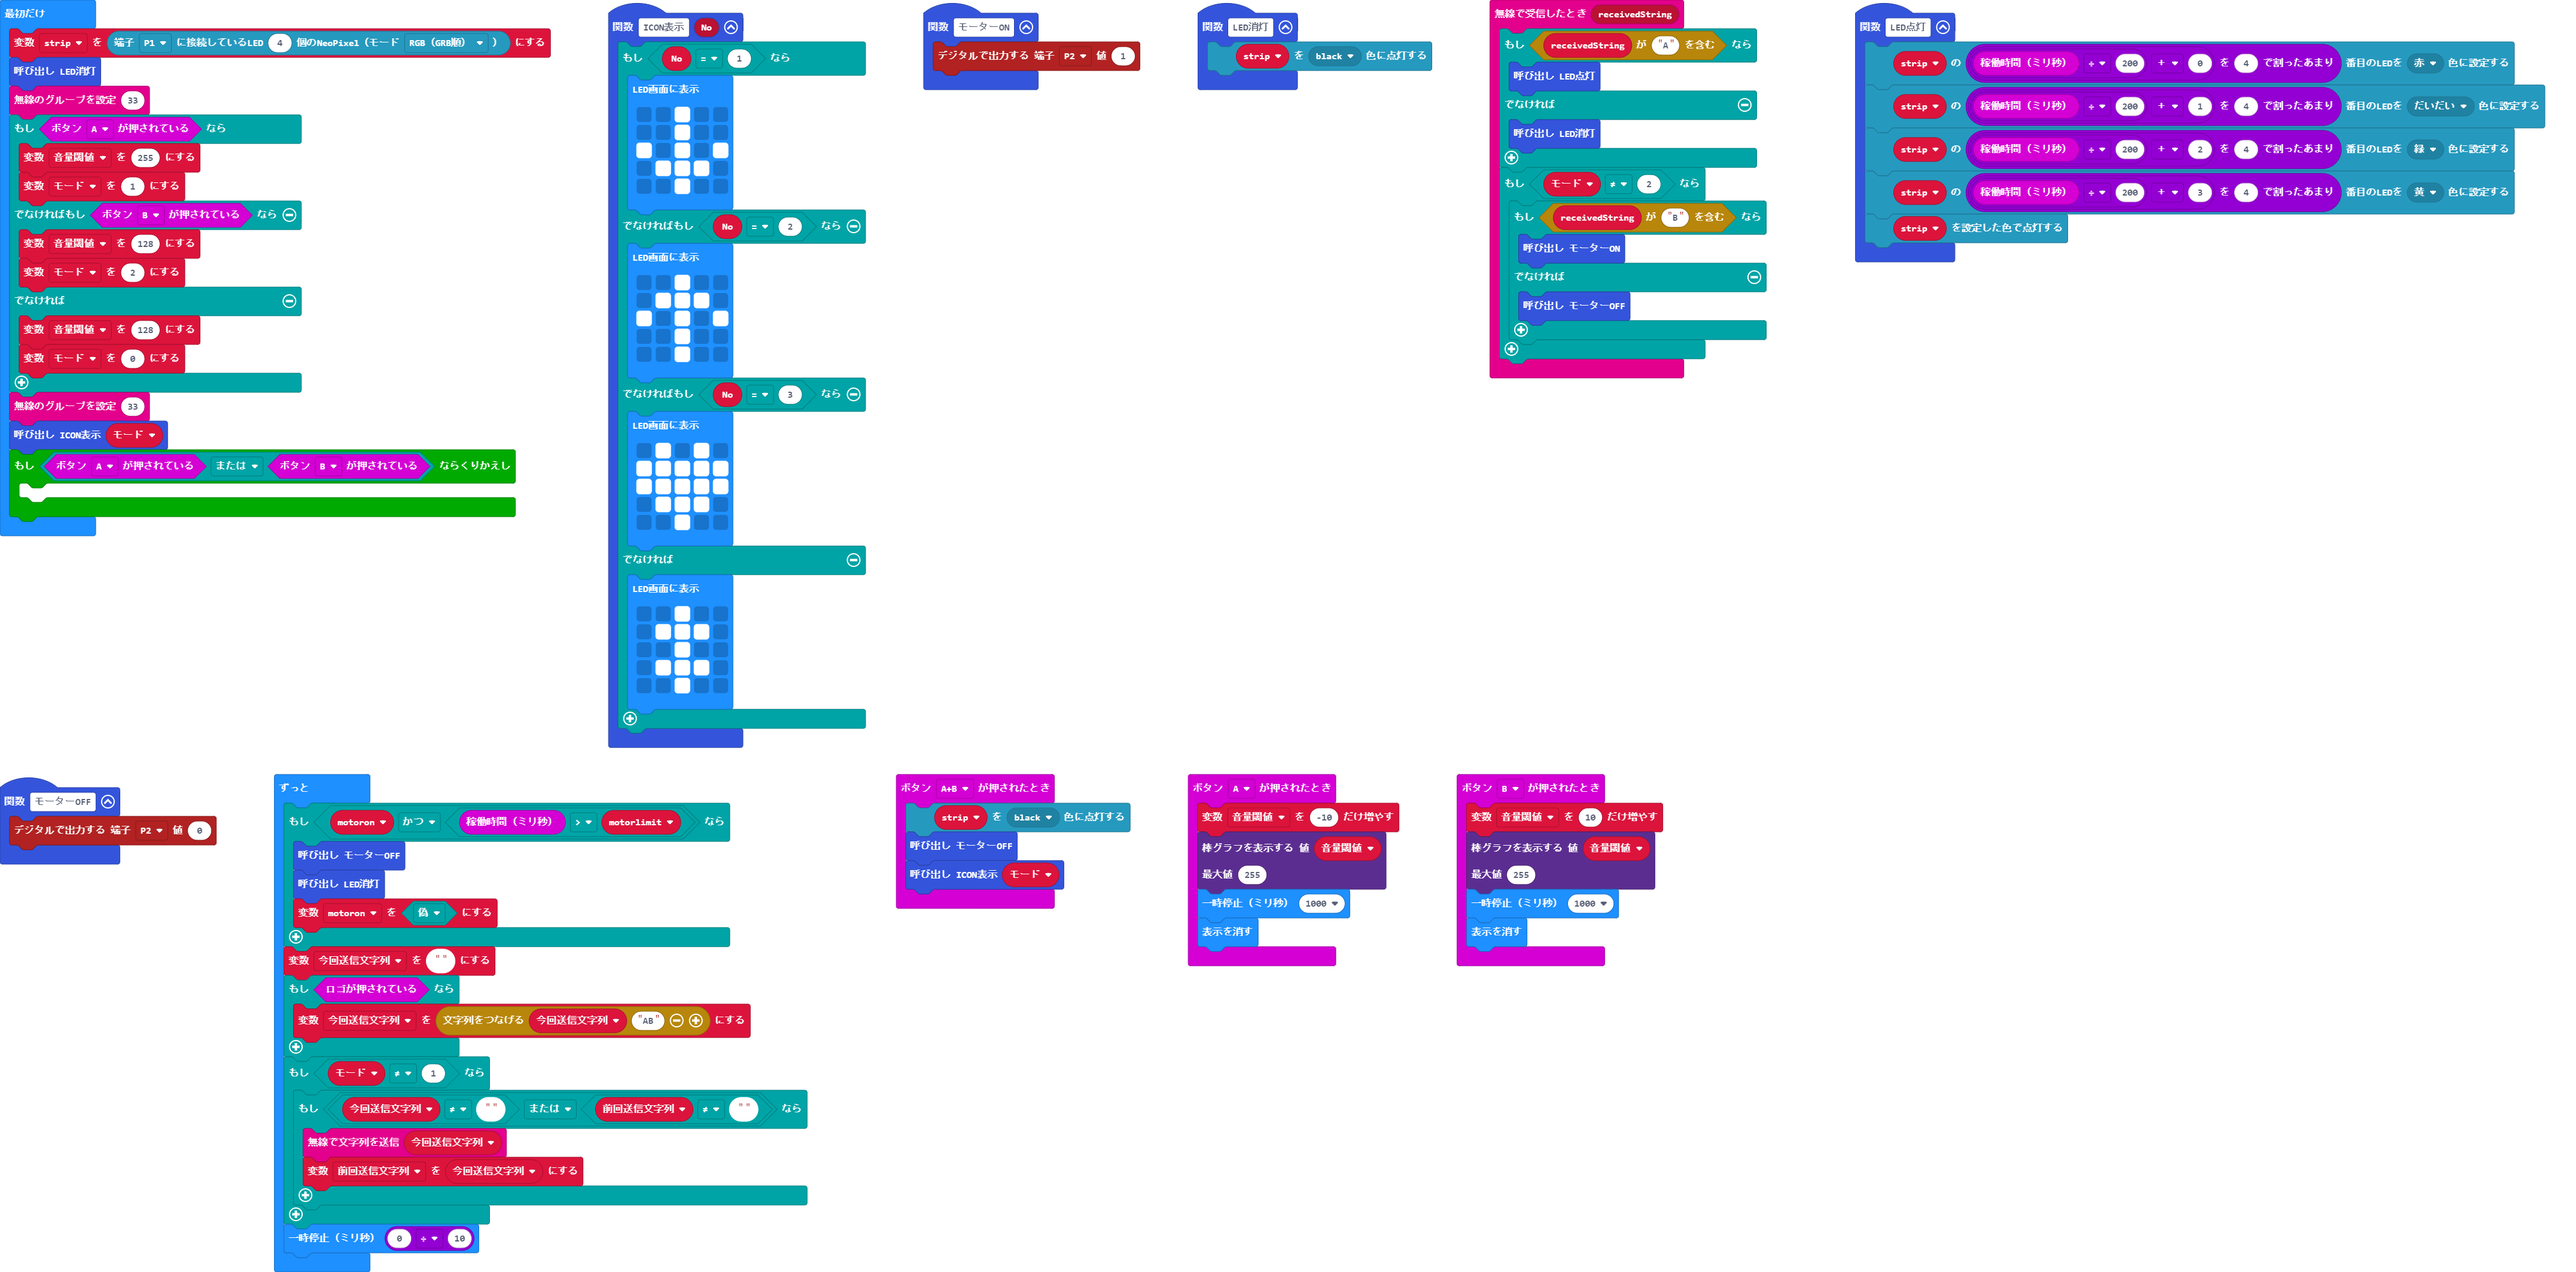
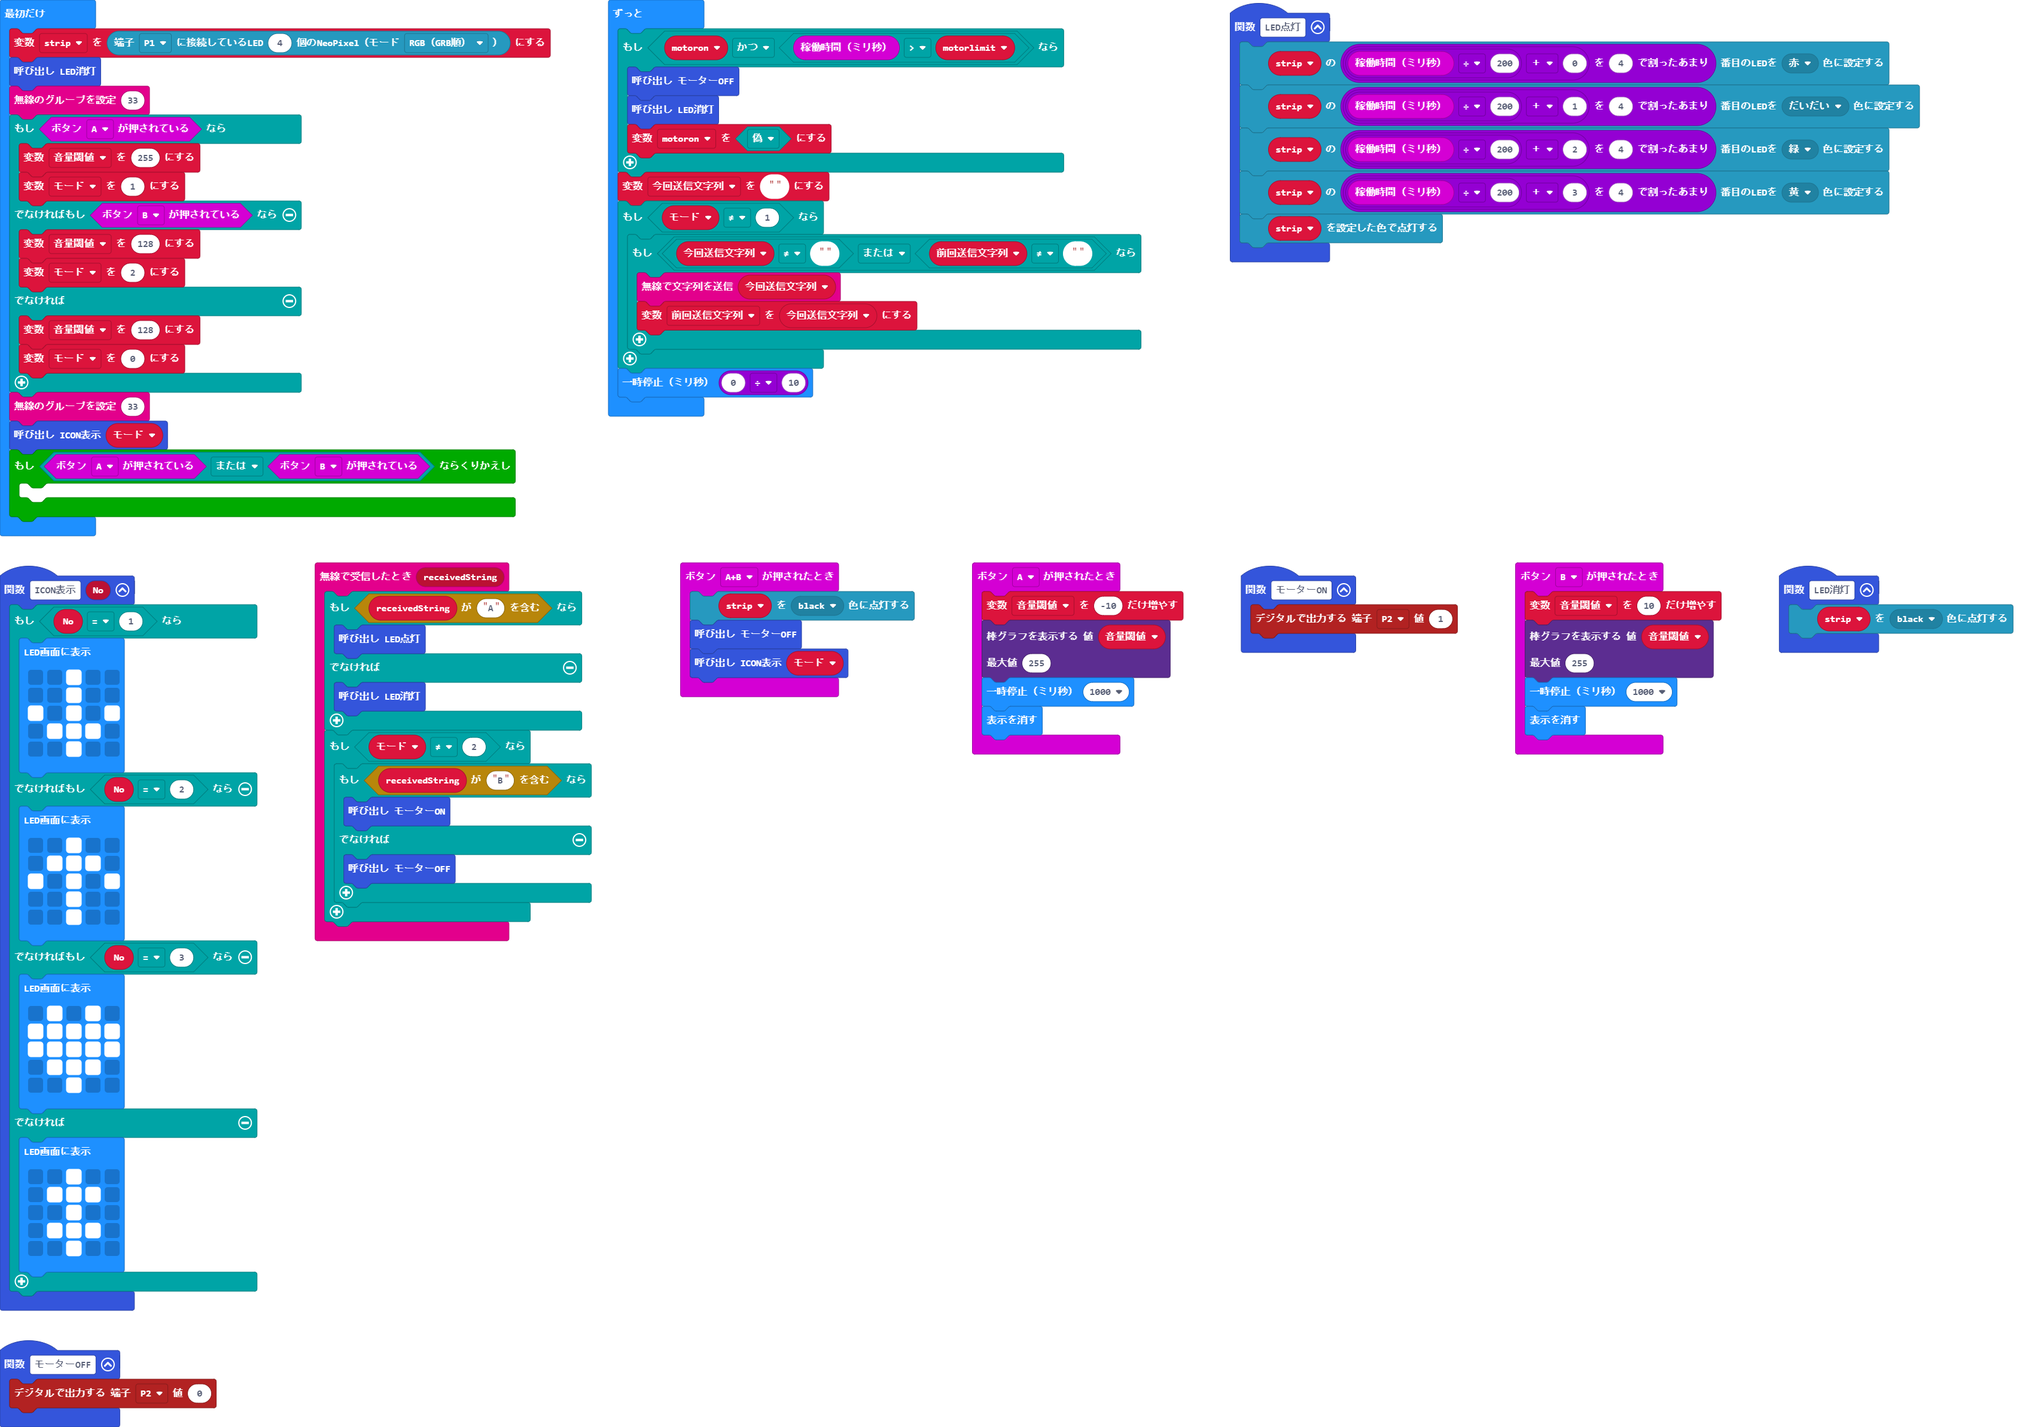
更新 main.blocks, main.ts

diff --git a/main.ts b/main.ts
@@ -118,9 +118,6 @@ basic.forever(function () {
         motoron = false
     }
     今回送信文字列 = ""
-    if (input.logoIsPressed()) {
-        今回送信文字列 = "" + 今回送信文字列 + "AB"
-    }
     if (モード != 1) {
         if (今回送信文字列 != "" || 前回送信文字列 != "") {
             radio.sendString(今回送信文字列)
